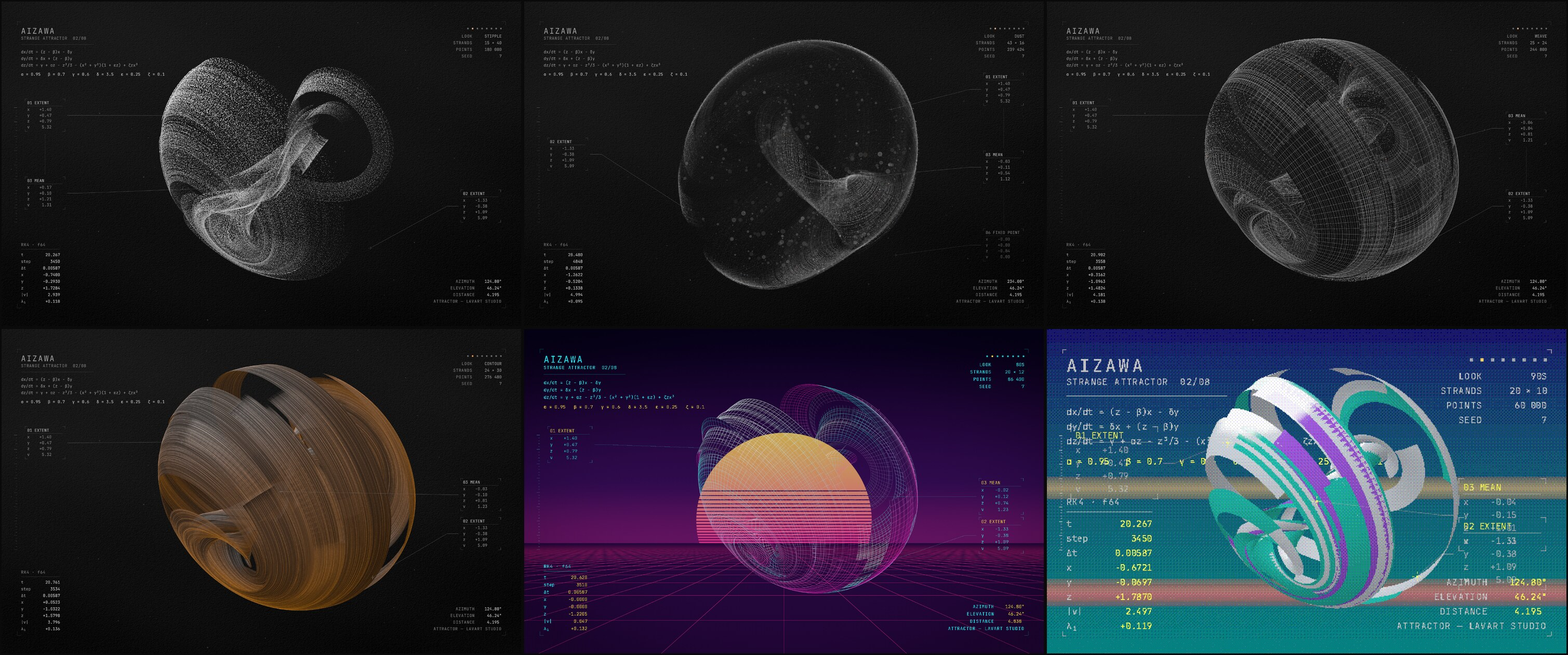
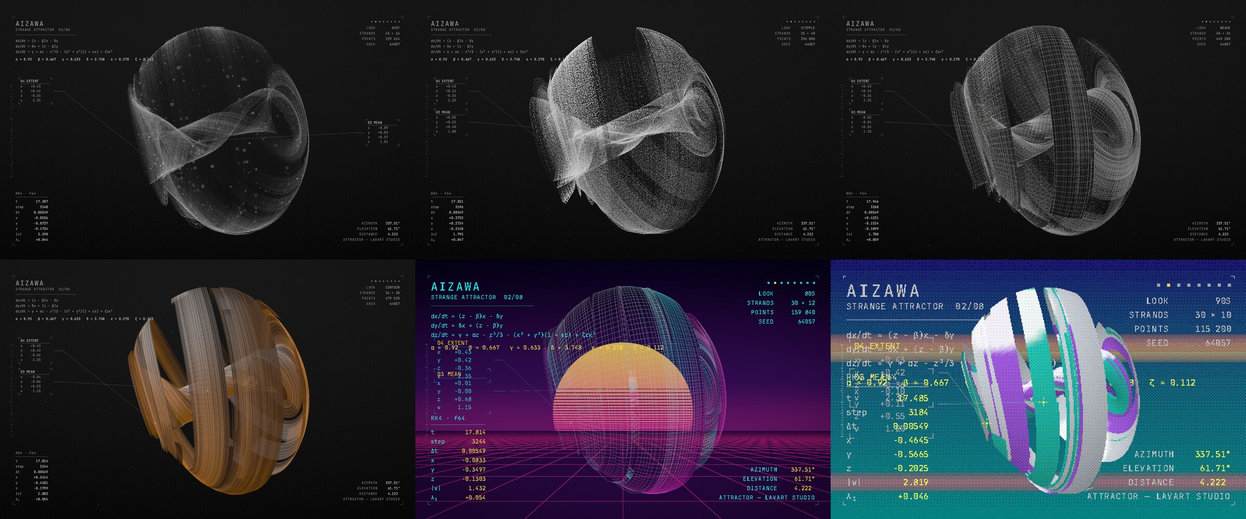
Prepare the first public release
- name the listing "Strange Attractors" and point the install line at
  github.com/lAvArt/strange-attractors
- the paper texture is now opt-in (canvas defaults to 0): the clean look is
  what the previews and recordings show
- regenerate the preview and the README sheets with the final defaults: the
  eight systems, the six looks, and six stock themes (the light ones now show
  the dark-ink fix)

diff --git a/src/config.rs b/src/config.rs
@@ -98,7 +98,7 @@ impl Config {
             handoff: true,
             seed: None,
             fixed_params: false,
-            canvas: 1.0,
+            canvas: 0.0,
             cycle: if wall { 150.0 } else { 90.0 },
             intensity: None,
             overlay: false,

diff --git a/README.md b/README.md
@@ -1,4 +1,4 @@
-# Attractor
+# Strange Attractors
 
 Strange attractors as a **live wallpaper** and a **screensaver** for [Omarchy](https://omarchy.org), by lAvArt Studio.
 
@@ -26,7 +26,7 @@ The plugin service starts the wallpaper at login and the screensaver after the s
 ## Installing
 
 ```bash
-omarchy plugin add https://github.com/lAvArt/attractor
+omarchy plugin add https://github.com/lAvArt/strange-attractors
 cargo build --release --locked --target-dir ~/.cache/attractor/build \
   --manifest-path ~/.config/omarchy/plugins/io.github.lavart.attractor/Cargo.toml
 omarchy plugin enable io.github.lavart.attractor
@@ -188,7 +188,7 @@ must be converted to paths. Only the shapes and their opacity matter unless you 
 | `preset` | `theme` | see Looks |
 | `palette` | `auto` | `theme`, `original`, or `auto` (the theme, except for `80s` and `90s`) |
 | `annotations` | `true` | the equations and live numbers in the margins |
-| `canvas` | `1` | 0 to 1: how much the picture is a work on paper (the ground's tooth and hand-laid wash, marks that catch on that tooth, strokes of uneven pressure, blooms with pooled edges). `0` is the clean look. Not applied to `80s` and `90s` |
+| `canvas` | `0` | 0 to 1: how much the picture is a work on paper (the ground's tooth and hand-laid wash, marks that catch on that tooth, strokes of uneven pressure, blooms with pooled edges). `0` (the default) is the clean look; raise it for a paper-like surface. Not applied to `80s` and `90s` |
 | `randomize` | `true` | every instance of a system gets parameters of its own (see below); `false`, or `--classic`, keeps the classic ones |
 | `seed` | random | a number from 0 to 65535 fixes the run; the margin shows the seed of the instance on screen, and `--seed N --system NAME` brings it back |
 | `trackers` | `true` | tracking boxes locked onto the system's fixed points and the orbit's farthest reaches, with faint lines between them; `--no-trackers` for one run |
